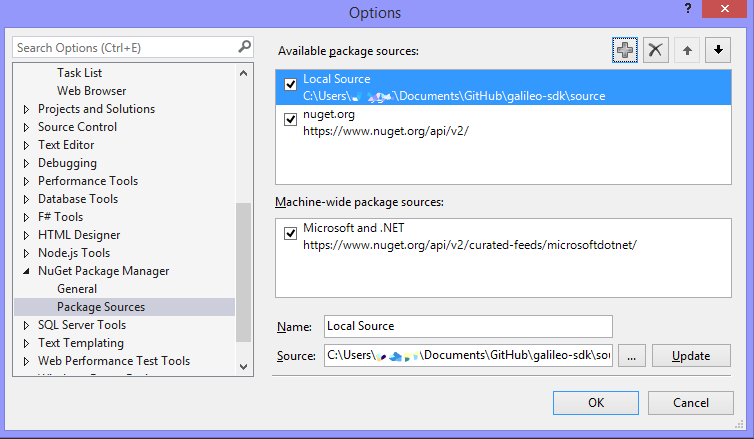
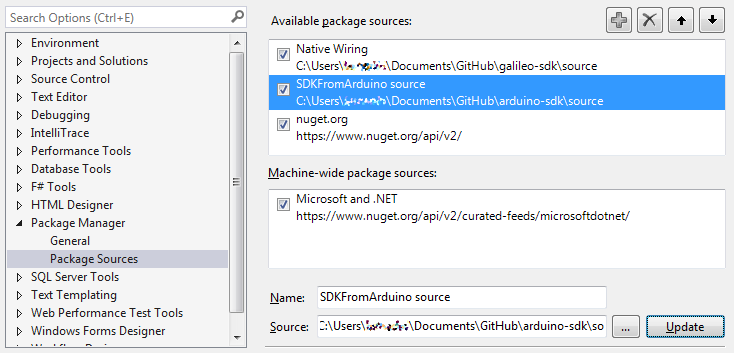
Update readme for SDKFromArduino dependency

diff --git a/README.md b/README.md
@@ -1,5 +1,7 @@
 ## Microsoft.IoT.Galileo.Arduino Nuget package
-This repository is for generating the Windows Developer Program for IoT Nuget package
+This repository is for generating the Windows Developer Program for IoT Nuget package. This package contains code which is compiled into the maker's application which can be deployed to a board running Microsoft Windows. 
+
+This nuget package depends on Microsoft.IoT.SDKFromArduino, which contains source files written by the Arduino community. Together these packages ensure compatibility with existing sketches running on Microsoft Windows.
 
 ##Configure Visual Studio
 You'll want to redirect visual studio's *user templates* to the repository you are working in.
@@ -7,9 +9,11 @@ You'll want to redirect visual studio's *user templates* to the repository you a
 
 ![Template Config](images/Nuget_TemplateConfig.png)
 
-Under *Projects and Solutions*, select *General*
+Under *Projects and Solutions*, select *General*,
 
 ###For Visual Studio Pro and Ultimate
+
+In order to install nuget packages from your local builds, you'll need to add both the galileo-sdk and arduino-sdk to the nuget package manager sources. Following the below instructions for each sdk source:
 
 *Tools -> Library Package Manager -> Package Manager Settings*
 
@@ -17,7 +21,7 @@ Under *Projects and Solutions*, select *General*
 
 
 1. Click the "+" button to add a new source
-1. Set the name to something descriptive, such as: "Local Source"
+1. Set the name to something descriptive
 1. Click the "..." button and navigate to your local sources directory (.\source folder)
 1. Click the "Update" button to save the Package Sources changes
 
@@ -28,7 +32,7 @@ Under *Projects and Solutions*, select *General*
 
 
 1. Click the "+" button to add a new source
-1. Set the name to something descriptive, such as: "Local Source"
+1. Set the name to something descriptive
 1. Click the "..." button and navigate to your local sources directory (.\source folder)
 1. Click the "Update" button to save the Package Sources changes
 
@@ -51,7 +55,7 @@ You can now build the application. Please refer to the [Hello Blinky Sample](Hel
 ###Iterate in the Nuget Package
 Now you need to make changes to the Nuget Package, you'll need to uninstall it first. Right click on the Project in the solution and select *Manage Nuget Packages*.
 
-Now Uninstall the Galileo SDK by clicking the uninstall button:
+Now Uninstall the Galileo SDK by clicking the uninstall button. Selected yes, when prompted if you want to uninstall the arduino-sdk.
 
 ![Nuget Install](images/Nuget_Install.png)
 
